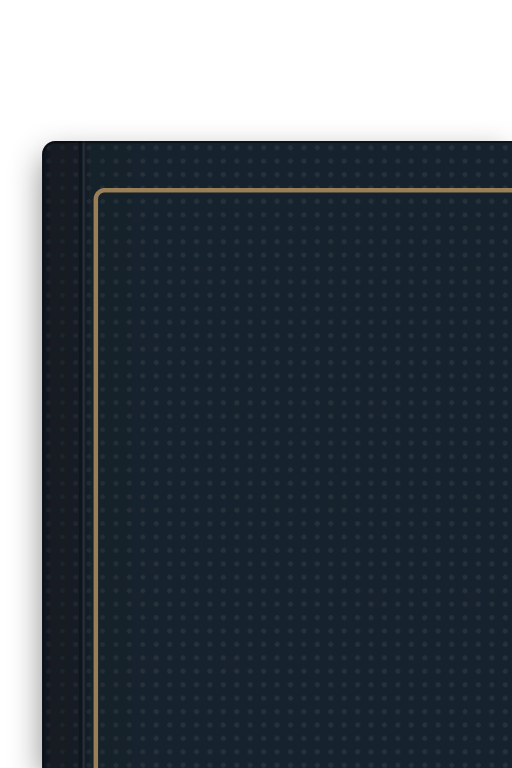
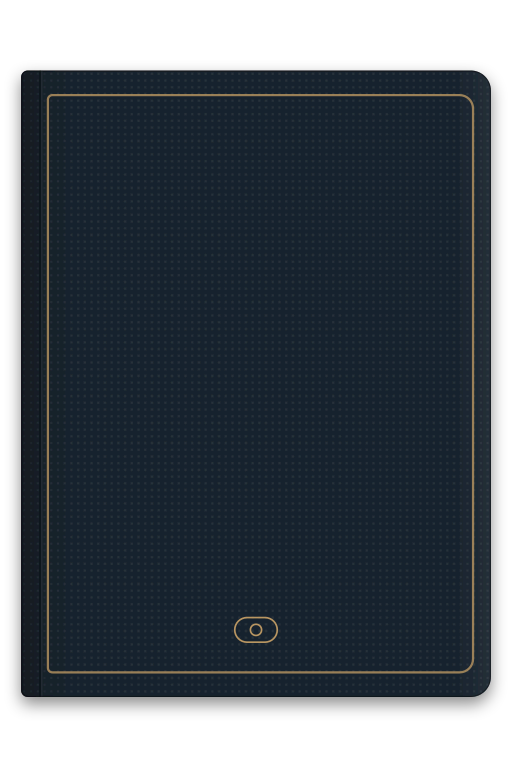
fix(ui): scale reduced cover copies instead of cropping them
The cover plate's SVG wrapper had no viewBox, so its half, quarter, and
eighth copies rendered only the top-left corner, and smaller passports
drew a broken cover. Give the wrapper a viewBox, make the generator
reject roots without one, and check every reduced copy against its full
plate.

Changed region(s): [[0.0312, 0.0938, 1.0, 1.0], [0.4375, 0.7812, 0.5625, 0.8438]]

diff --git a/tests/Wanderveil.UiChecks/RuntimePassportChecks.cs b/tests/Wanderveil.UiChecks/RuntimePassportChecks.cs
@@ -37,6 +37,15 @@ internal static class RuntimePassportChecks
                 check(plugin.GetManifestResourceNames().Contains("Wanderveil.Assets." + plate + level + ".png"), "Runtime plate lacks a reduced copy: " + plate + level);
         check(!plugin.GetManifestResourceNames().Any(name => name.Contains("SourceSerif4", StringComparison.Ordinal)), "Replaced Source Serif 4 font entered the runtime assembly.");
 
+        // A reduced copy must be its full plate shrunk, never cropped or shifted (a missing viewBox once cropped covers).
+        foreach (var level in Directory.EnumerateFiles(Path.Combine(AppContext.BaseDirectory, "Assets"), "*.png", SearchOption.AllDirectories)
+            .Where(file => file.EndsWith(".half.png", StringComparison.Ordinal) || file.EndsWith(".quarter.png", StringComparison.Ordinal) || file.EndsWith(".eighth.png", StringComparison.Ordinal)))
+        {
+            var full = level[..level.LastIndexOf('.', level.Length - 5)] + ".png";
+            check(File.Exists(full), "Reduced copy has no full plate: " + Path.GetFileName(level));
+            check(LevelDifference(full, level) < 0.06f, "Reduced copy does not match its full plate: " + Path.GetFileName(level));
+        }
+
         foreach (var single in new[] { false, true })
         {
             var viewport = single ? new Vector2(452, 760) : new Vector2(1200, 900);
@@ -129,6 +138,32 @@ internal static class RuntimePassportChecks
             try { _ = new BookShell(new MissingAssets(), PassportPreview.Sample, invalid); check(false, "Invalid logical page identifiers accepted."); }
             catch (ArgumentException) { check(true, "Invalid logical page catalog rejected."); }
         }
+    }
+
+    // Mean per-channel difference (0-1) between a reduced copy and its full plate scaled to the same size.
+    private static float LevelDifference(string fullPath, string levelPath)
+    {
+        using var level = new System.Drawing.Bitmap(levelPath);
+        using var source = new System.Drawing.Bitmap(fullPath);
+        using var scaled = new System.Drawing.Bitmap(level.Width, level.Height, System.Drawing.Imaging.PixelFormat.Format32bppArgb);
+        using (var graphics = System.Drawing.Graphics.FromImage(scaled))
+        {
+            graphics.InterpolationMode = System.Drawing.Drawing2D.InterpolationMode.HighQualityBicubic;
+            graphics.PixelOffsetMode = System.Drawing.Drawing2D.PixelOffsetMode.HighQuality;
+            graphics.DrawImage(source, new System.Drawing.Rectangle(0, 0, level.Width, level.Height));
+        }
+        double total = 0;
+        var step = Math.Max(1, Math.Min(level.Width, level.Height) / 96);
+        var samples = 0;
+        for (var y = 0; y < level.Height; y += step)
+            for (var x = 0; x < level.Width; x += step)
+            {
+                var a = level.GetPixel(x, y);
+                var b = scaled.GetPixel(x, y);
+                total += (Math.Abs(a.R - b.R) + Math.Abs(a.G - b.G) + Math.Abs(a.B - b.B) + Math.Abs(a.A - b.A)) / (4 * 255.0);
+                samples++;
+            }
+        return (float)(total / samples);
     }
 
     private sealed class MissingAssets : Wanderveil.UI.Components.IBookAssets

diff --git a/tools/passport-art/README.md b/tools/passport-art/README.md
@@ -42,7 +42,7 @@ where the script nests another template.
 The game samples textures without mipmaps, so shrinking a plate more than about 2x skips pixels and
 edges alias. Every plate is therefore also re-rendered from its SVG at 1/2, 1/4 and 1/8 size
 (`<name>.half.png`, `.quarter`, `.eighth`, stopping near 96 px). The client draws the smallest copy
-that is still at least as wide as it appears on screen, falling back to any loaded copy while one loads.
+that is still at least as wide as it appears on screen, falling back to any loaded copy while one loads. Every root `<svg>` therefore needs a `viewBox`: without one, rendering smaller crops the drawing, and the generator refuses it. The client checks also compare each copy against its full plate.
 
 ## Contracts with the client
 
